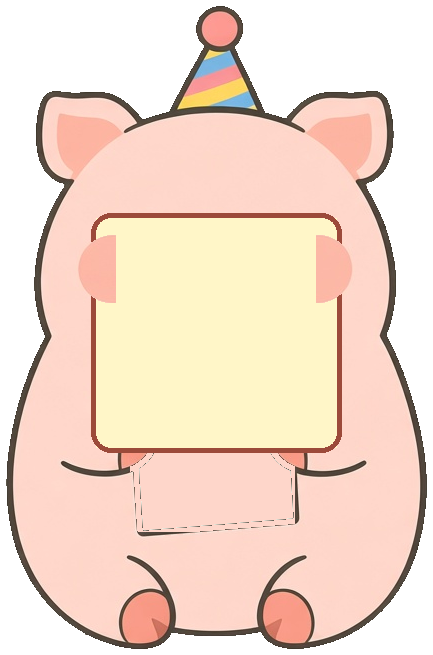
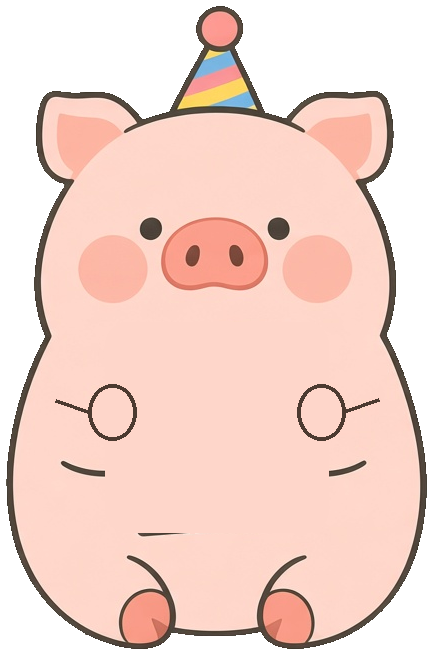
fix: move birthday card below face into hand zone
Remove baked yellow card from lulu-fullbody.png so snout/blush stay
visible; solid pink torso with hands at sides. Reposition HTML
.birthday-sign to top 54% / height 26% / width 44% (red-box zone
between hands). Drop img max-height letterboxing so card % matches PNG.

Changed region(s): [[0.1201, 0.3053, 0.8707, 0.7939]]

diff --git a/css/styles.css b/css/styles.css
@@ -302,10 +302,10 @@ button, .btn-replay, .cta-hint, .birthday-sign {
 .flyer-wrap.flying .flyer-front {
   width: 100%;
   height: auto;
-  max-height: var(--flyer-landed-h);
+  max-height: none; /* avoid letterbox; card % must match full PNG */
   object-fit: contain;
-  object-position: center bottom;
-  /* Never crop: show ears → feet (contain + overflow visible) */
+  object-position: center center;
+  /* Never crop: show ears → feet */
   overflow: visible;
 }
 /* On short phones keep full silhouette readable */
@@ -370,19 +370,19 @@ button, .btn-replay, .cta-hint, .birthday-sign {
 .birthday-sign {
   position: absolute;
   left: 50%;
-  /* Below snout/face; ~half body height for readable mobile type */
-  top: 42%;
+  /* Below snout/blush; between hands (red-box zone) */
+  top: 54%;
   bottom: auto;
   display: flex;
   flex-direction: column;
   align-items: center;
   justify-content: center;
-  width: 62%;
-  height: 48%;
-  min-height: 48%;
-  max-height: 50%;
+  width: 44%;
+  height: 26%;
+  min-height: 26%;
+  max-height: 28%;
   margin: 0;
-  padding: 7px 6px 5px;
+  padding: 5px 4px 4px;
   /* Solid opaque pale yellow — never see-through */
   background: #FFF6C8 !important;
   background-color: #FFF6C8 !important;
@@ -421,9 +421,9 @@ button, .btn-replay, .cta-hint, .birthday-sign {
 .flyer-wrap.flying .birthday-sign {
   position: absolute;
   left: 50%;
-  top: 38%;
-  width: 58%;
-  height: 50%;
+  top: 52%;
+  width: 42%;
+  height: 25%;
   margin: 0;
   transform: translateX(-50%) scale(0.85);
   opacity: 0;
@@ -448,29 +448,29 @@ button, .btn-replay, .cta-hint, .birthday-sign {
   50% { box-shadow: 0 0 0 2px rgba(247, 168, 184, 0.55); }
 }
 .sign-label {
-  font-size: clamp(0.78rem, 3.2vw, 1.05rem);
+  font-size: clamp(0.62rem, 2.4vw, 0.85rem);
   font-weight: 800;
-  line-height: 1.25;
-  margin-bottom: 6px;
+  line-height: 1.15;
+  margin-bottom: 3px;
   color: var(--text-main);
 }
 .sign-countdown {
   display: grid;
   grid-template-columns: repeat(4, 1fr);
-  gap: 4px;
+  gap: 2px;
 }
 .sign-unit {
   background: #FFFBE8;
   background-color: #FFFBE8;
   border: 1px solid #C4A574;
-  border-radius: 6px;
-  padding: 4px 1px;
+  border-radius: 5px;
+  padding: 2px 1px;
   min-width: 0;
   opacity: 1;
 }
 .sign-unit .num {
   display: block;
-  font-size: clamp(0.95rem, 3.2vw, 1.25rem);
+  font-size: clamp(0.72rem, 2.6vw, 0.95rem);
   font-weight: 800;
   color: var(--pink-deep);
   font-variant-numeric: tabular-nums;
@@ -493,8 +493,8 @@ button, .btn-replay, .cta-hint, .birthday-sign {
 .birthday-sign.is-today .sign-countdown { display: none; }
 .birthday-sign.is-today .sign-done { display: block; }
 .sign-click-hint {
-  margin-top: 8px;
-  font-size: clamp(0.78rem, 3.2vw, 1rem); /* slightly larger */
+  margin-top: 3px;
+  font-size: clamp(0.58rem, 2.2vw, 0.78rem);
   font-weight: 800;
   color: #F07A9A; /* pink fill */
   letter-spacing: 0.06em;
@@ -764,9 +764,9 @@ button, .btn-replay, .cta-hint, .birthday-sign {
     animation: none !important;
     position: absolute !important;
     left: 50% !important;
-    top: 42% !important;
-    width: 62% !important;
-    height: 48% !important;
+    top: 54% !important;
+    width: 44% !important;
+    height: 26% !important;
     margin: 0 !important;
   }
   .cloud, .sun { animation: none; }
